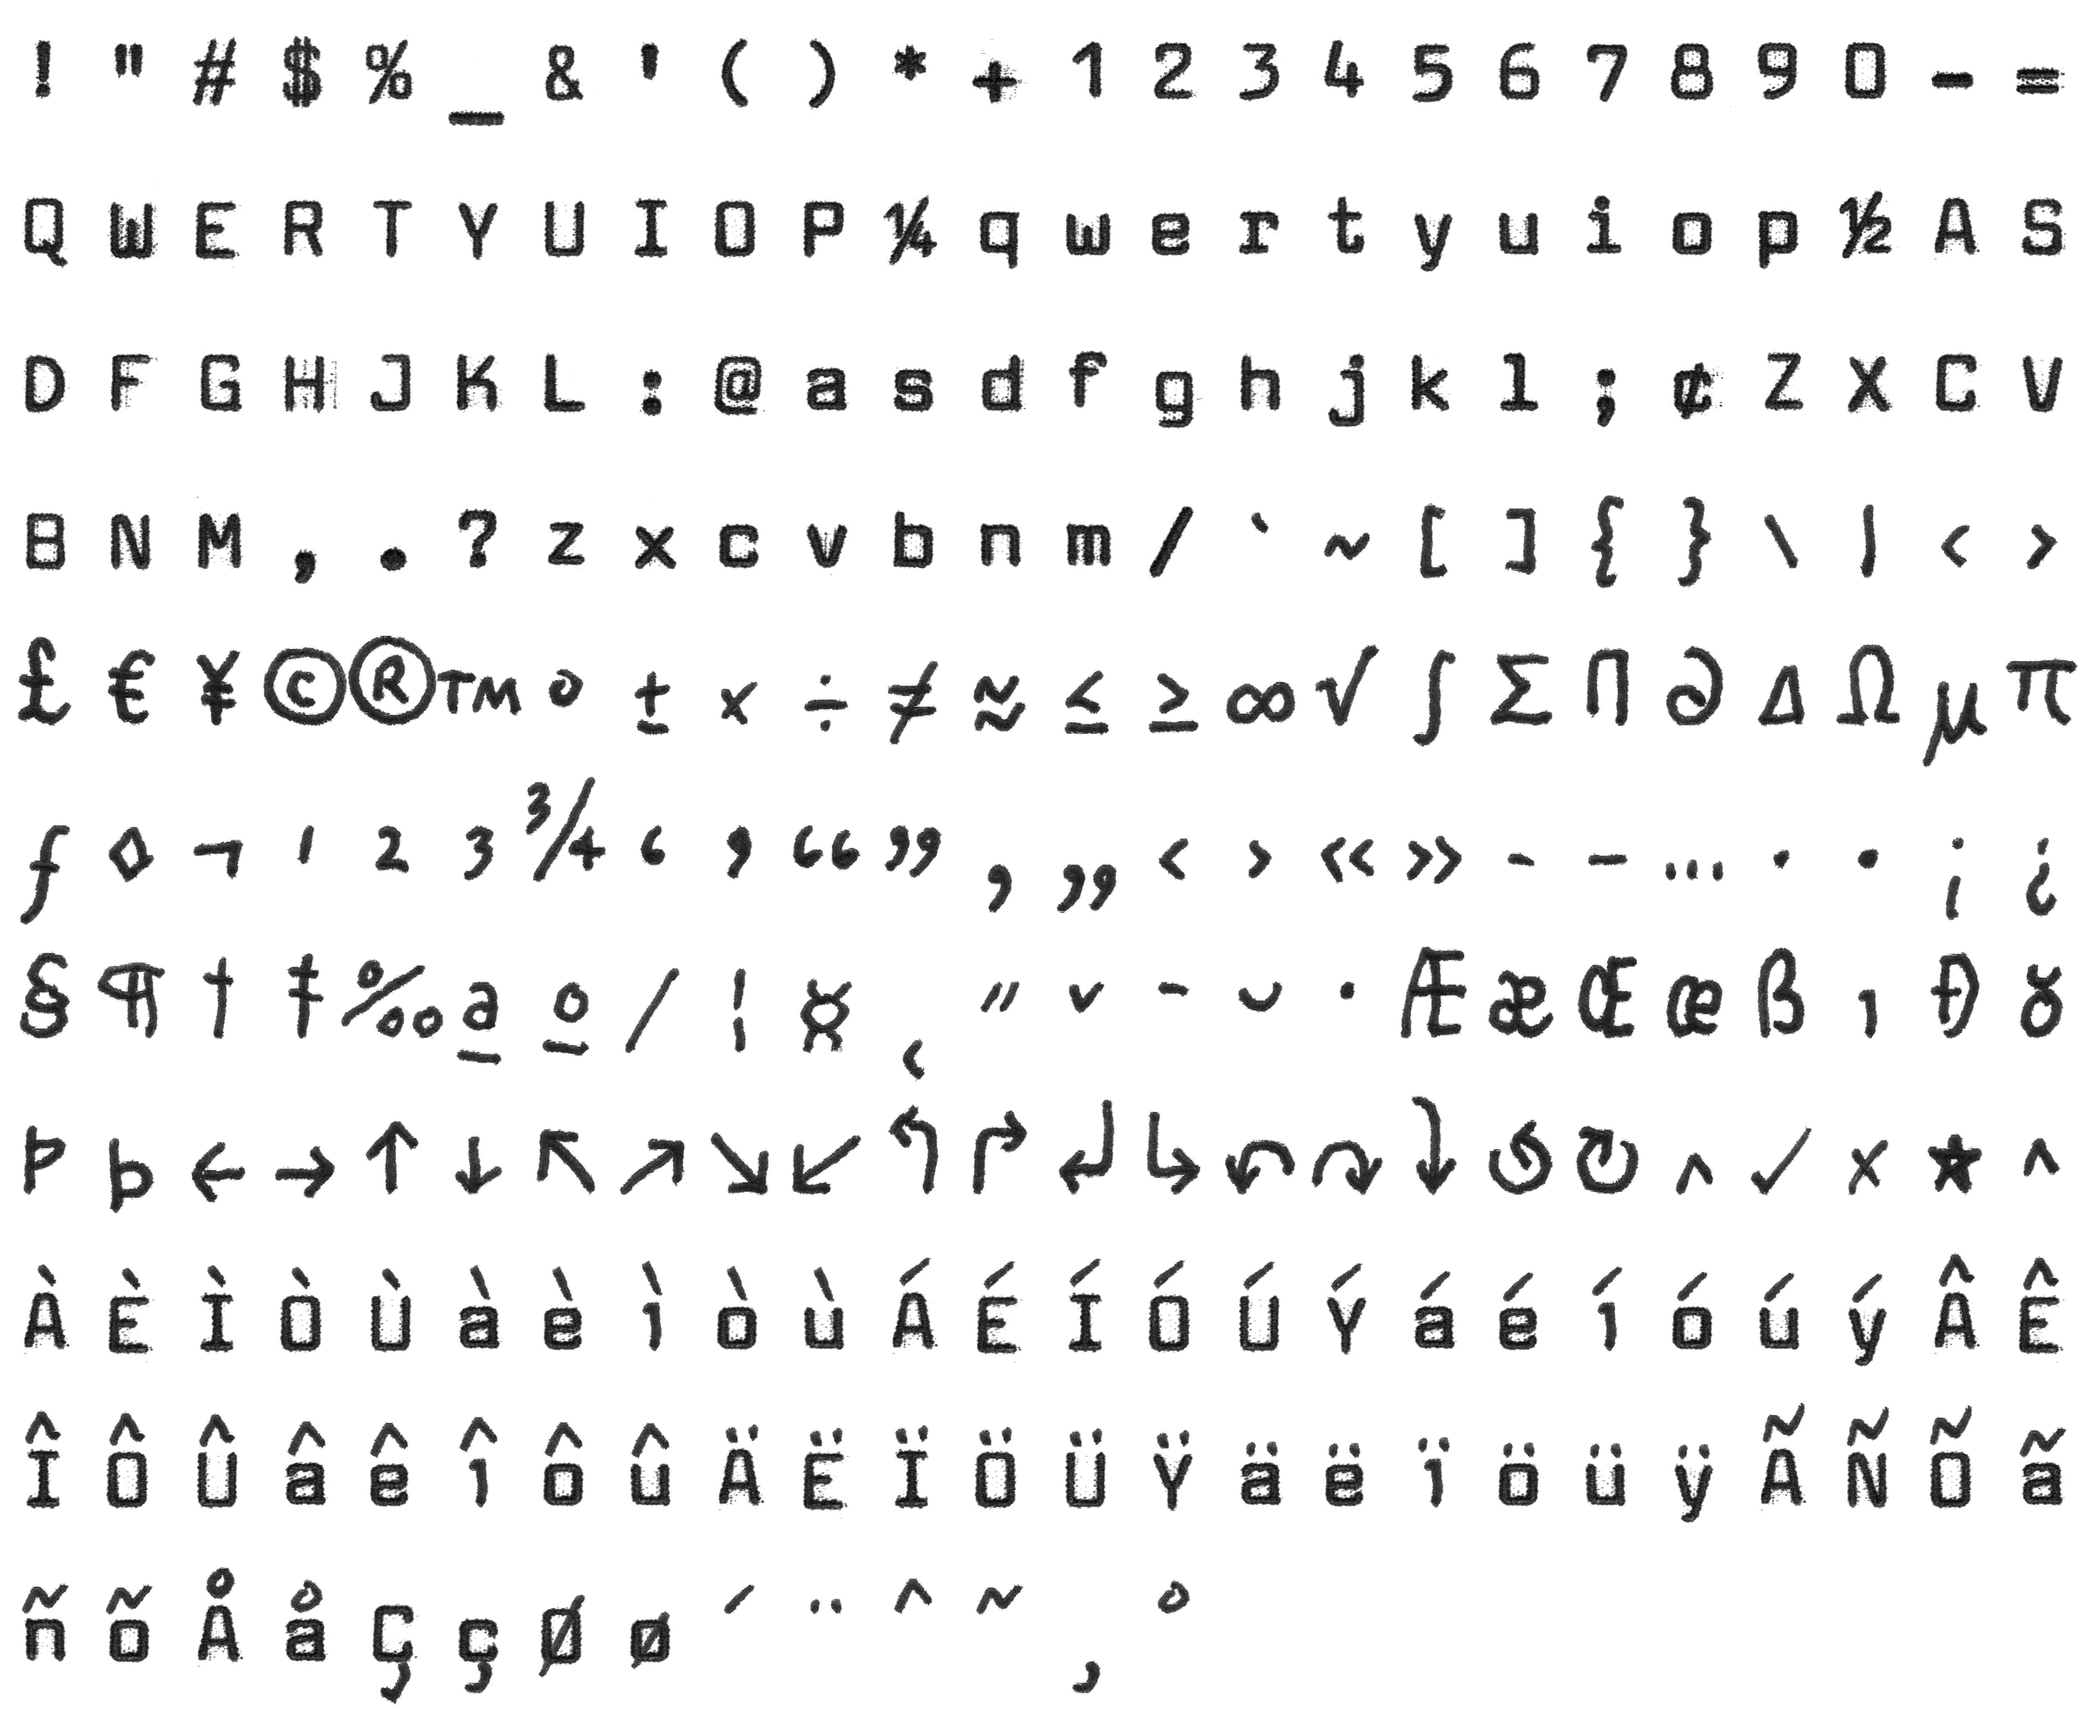
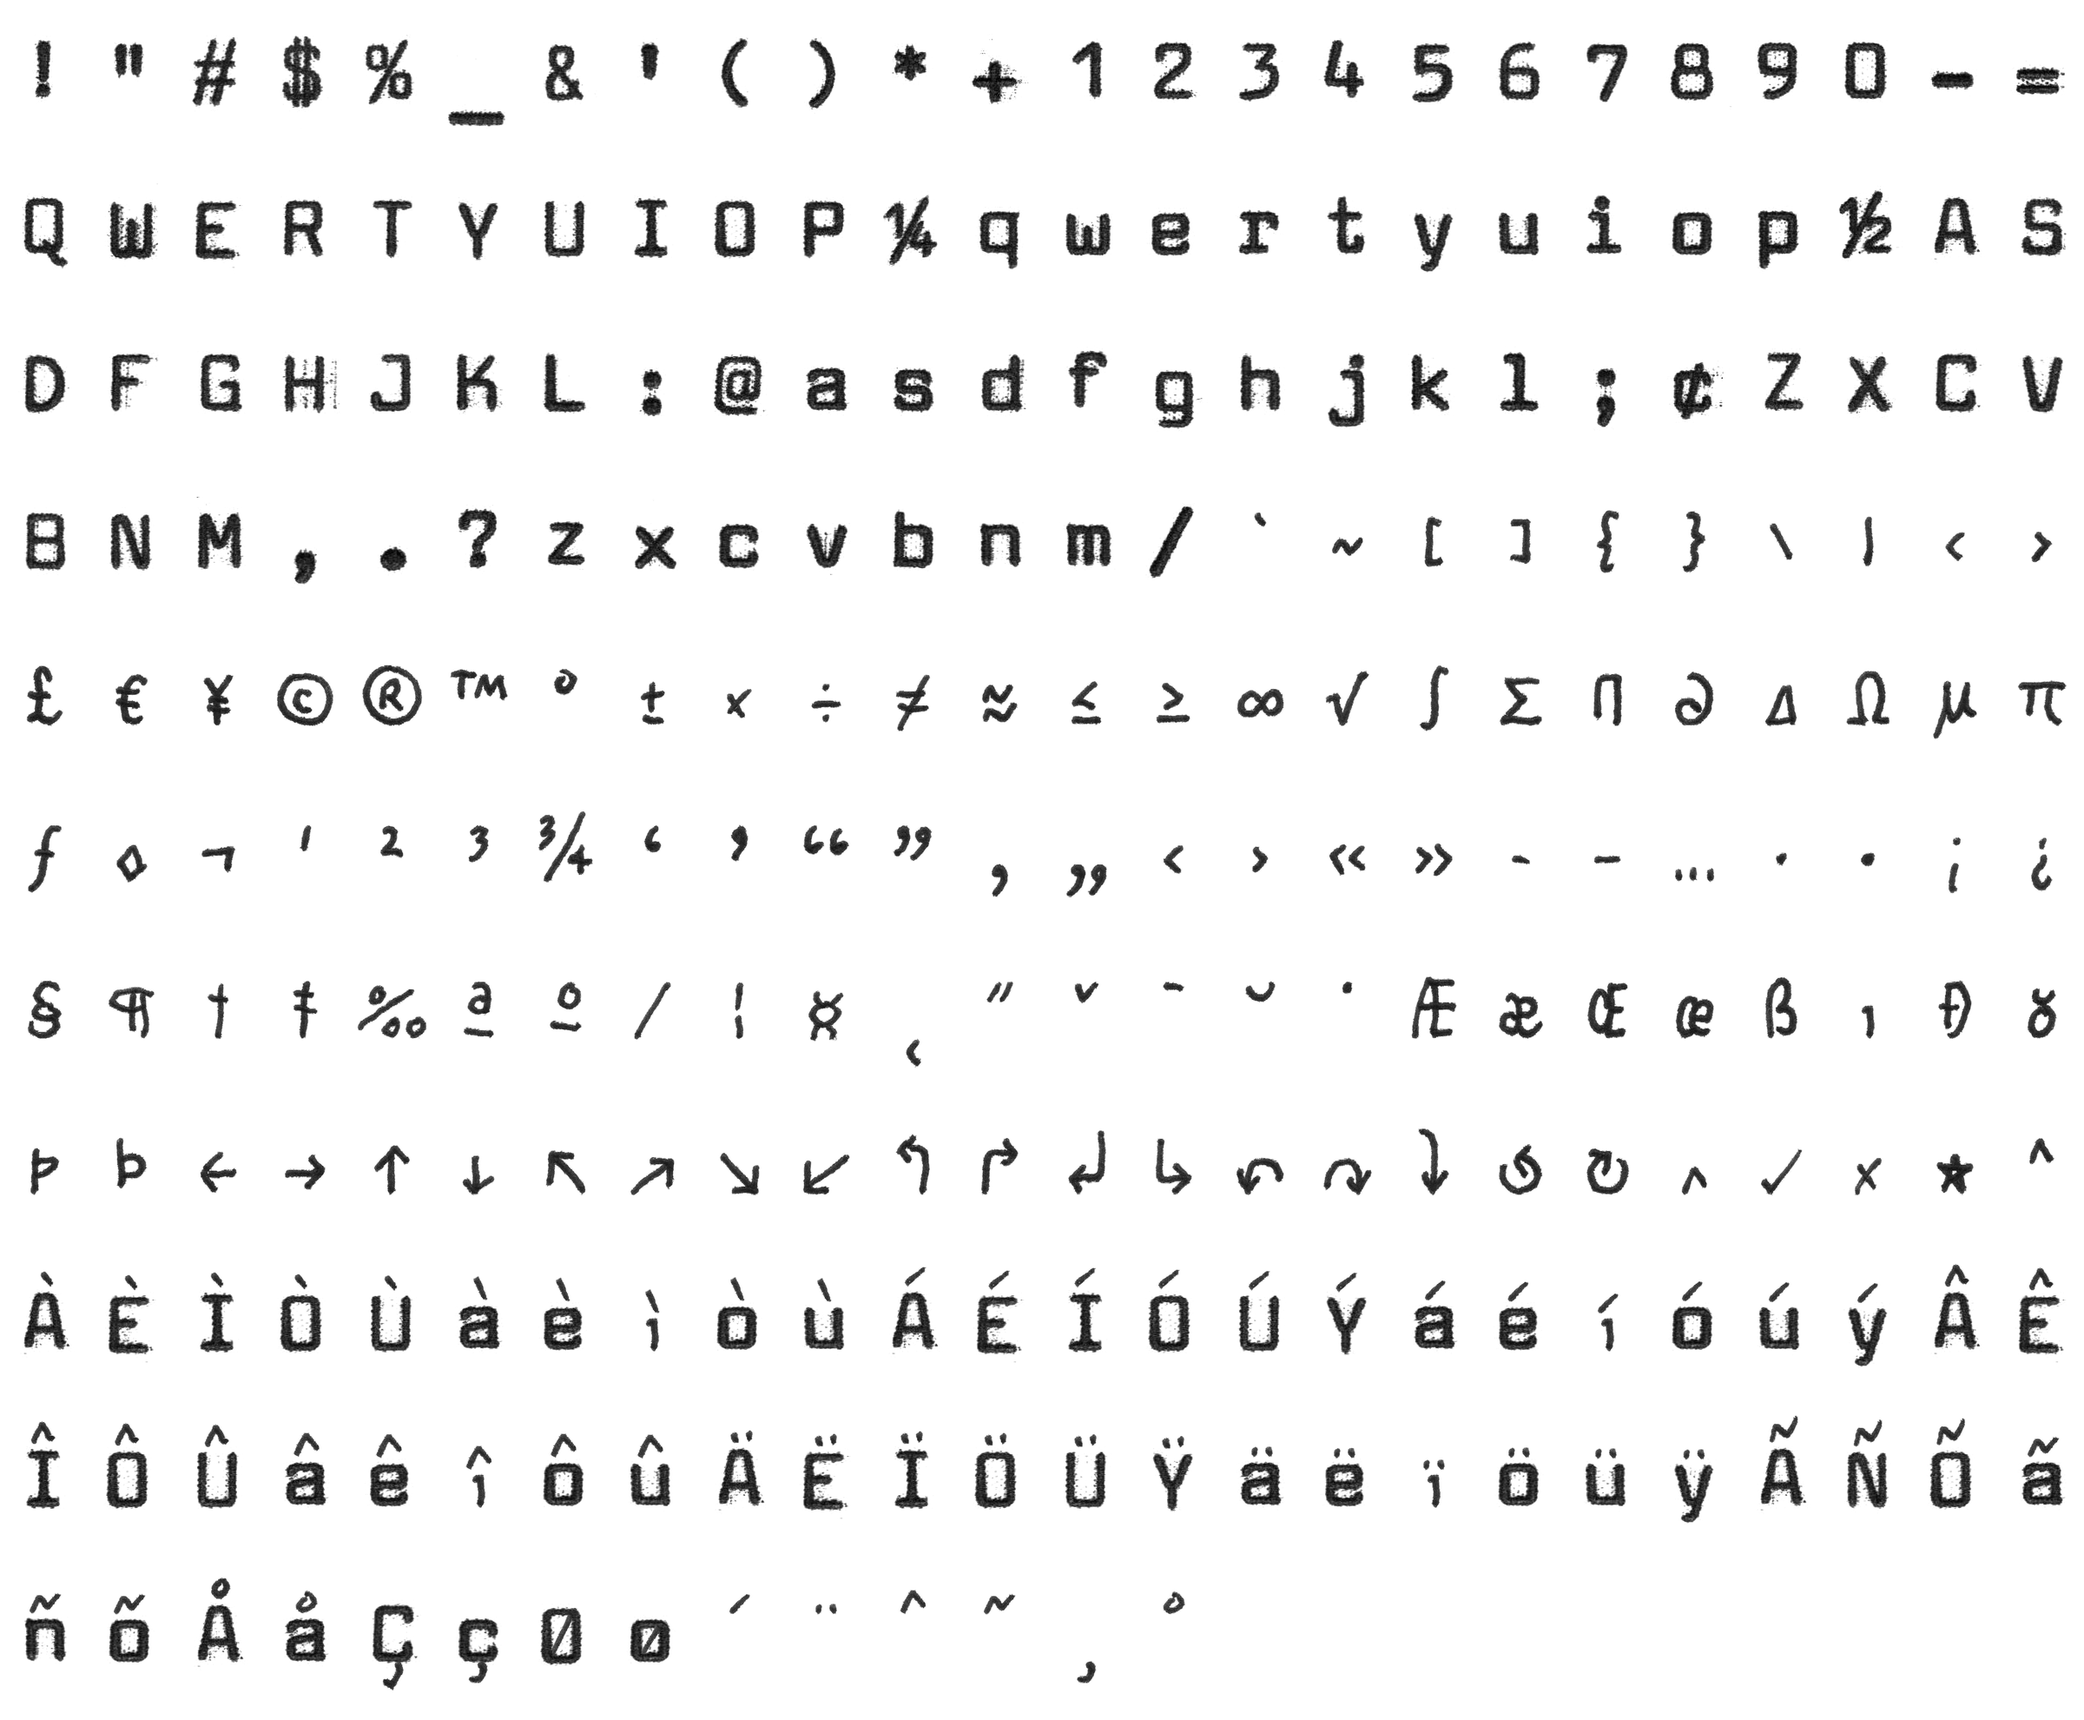
Scale each weight's drawings by one amount, and list what else prints
Every drawing in a weight is now scaled by the one factor that brings its
drawn capitals and x-height letters to the typed ones' size, in place of
shrinking each glyph to its own box, so all of them keep the stroke of the
pen they were drawn with. Accents over letters are measured without the
specks of dust in the scans, which had set the light lowercase o's accents a
line too high.

glyphs/layout.json also lists the lookalikes struck for characters the type
doesn't have, the accents struck over letters it has without them, and the
names characters can be written by.

Claude-Session: https://claude.ai/code/session_01UAck9h7yeA6utHax9aEA1s

diff --git a/docs/build-glyphs.py b/docs/build-glyphs.py
@@ -5,9 +5,9 @@
 #   python3 docs/build-glyphs.py
 #
 # Each scanned sheet is lined up against the layout docs/character-sheet.py printed it from, by finding every typed
-# glyph on it. Then each drawn glyph is cut out of its blank, cleaned of the blue and green ticks, and set at the
-# height its kind of character sits at, centred in its cell. Accents are laid over the letters that take them.
-# Needs Pillow and NumPy.
+# glyph on it. Then each drawn glyph is cut out of its blank, cleaned of the blue and green ticks, scaled with the rest
+# of its weight to the typed glyphs' size, and set at the height its kind of character sits at, centred in its cell.
+# Accents are laid over the letters that take them. Needs Pillow and NumPy.
 
 import json, os, sys
 import numpy as np
@@ -203,6 +203,36 @@ def baseOf(c):
     b = {"Ø": "O", "ø": "o"}.get(c) or unicodedata.normalize("NFD", c)[0]
     return "ı" if b == "i" else b
 
+# OTHER CHARACTERS THAT PRINT ######################################################################
+
+# Characters the type doesn't have, struck with one that looks the same
+lookalikes = {}
+for chars, glyph in [
+    ("✔✅", "✓"), ("✘❌", "✗"), ("✕✖⨯", "×"), ("☆⭐✩✪✫✬✭✮✯✰", "★"),
+    ("⇒⟹➔➜➝➞➟➠➡⟶", "→"), ("⇐⟸⟵⬅", "←"), ("⇑⬆", "↑"), ("⇓⬇", "↓"), ("↩", "↶"), ("↪", "↷"), ("⟲", "↺"), ("⟳", "↻"),
+    ("−‐‑", "-"), ("‒", "–"), ("―", "—"), ("′", "'"), ("″", '"'), ("‵", "`"), ("‛❛", "‘"), ("❜", "’"), ("‟❝", "“"),
+    ("❞", "”"), ("∙⋅", "·"), ("●◦‣⁃", "•"), ("∕", "/"), ("∣ǀ", "|"), ("≦⩽", "≤"), ("≧⩾", "≥"), ("∼～", "~"), ("⁁", "‸"),
+    ("μ", "µ"), ("Ω", "Ω"), ("Δ", "∆"), ("Σ", "∑"), ("Π", "∏"),
+]:
+    for c in chars: lookalikes[c] = glyph
+
+# A letter with an accent the type doesn't have is struck as the letter, then the accent over it, the typist's way
+overstrikes = {"\u0300": "`", "\u0301": "´", "\u0302": "ˆ", "\u0303": "˜", "\u0304": "¯", "\u0306": "˘", "\u0307": "˙",
+               "\u0308": "¨", "\u030a": "˚", "\u030b": "˝", "\u030c": "ˇ", "\u0327": "¸", "\u0328": "˛"}
+hanging = "¸˛" # accents that hang from a letter rather than sit over it
+
+def prints(c, have):
+    """Whether the app can strike c, from the glyphs it has."""
+    if c in have or lookalikes.get(c) in have: return True
+    base, *marks = unicodedata.normalize("NFD", c)
+    if base == "i": base = "ı"
+    return bool(marks) and (base in have or lookalikes.get(base) in have) and all(overstrikes.get(m) in have for m in marks)
+
+def characterNames(have):
+    """The names Markdown (and HTML) spell characters by, &frac12; for ½, for every one that prints."""
+    from html.entities import html5
+    return {n[:-1]: c for n, c in sorted(html5.items()) if n.endswith(";") and len(c) == 1 and c != " " and prints(c, have)}
+
 # THE NEW GLYPH IMAGES ############################################################################
 
 # Every strike gets one image: the typed glyphs copied from the typewriter's scans, then the drawn ones. Built at
@@ -219,15 +249,32 @@ strikes = [ # (glyph image, sheet, section on it, typed scan)
     ("double-red", "red", 2, "regular-red"), # the typewriter's red was never scanned double struck
 ]
 
-def inkBox(rgb, threshold=90):
-    ys, xs = np.nonzero(255 - rgb.min(2).astype(np.float32) > threshold)
-    return None if len(ys) == 0 else (xs.min(), ys.min(), xs.max() + 1, ys.max() + 1)
+def inkBox(rgb, threshold=90, smallest=30):
+    """The box around the ink in rgb, leaving out specks of dust in the scans."""
+    found = [f for f in components(255 - rgb.min(2).astype(np.float32) > threshold) if len(f[0]) >= smallest]
+    if not found: return None
+    ys, xs = np.concatenate([f[0] for f in found]), np.concatenate([f[1] for f in found])
+    return xs.min(), ys.min(), xs.max() + 1, ys.max() + 1
 
 def stamp(canvas, rgb, x, y):
     """Lay rgb over canvas with its top left at (x, y), ink over ink, as a typist's strikes would."""
     h, w = rgb.shape[:2]
     region = canvas[y:y + h, x:x + w]
     region[...] = np.minimum(region, rgb[:region.shape[0], :region.shape[1]])
+
+# Each weight's drawings are scaled by the one factor that brings its drawn capitals to the height of the typed ones,
+# and its drawn x-height letters to theirs, so every glyph keeps the weight of the pen it was drawn with
+def drawnScale(got):
+    heights = [(line["base"] - line["cap"], "ÆŒÐÞ"), (line["base"] - line["x"], "æœ")]
+    ratios = [h / (got[c][1][3] - got[c][1][1]) for h, chars in heights for c in chars if c in got]
+    return float(np.median(ratios)) if ratios else 1
+
+def scaled(d, s):
+    """A drawing d = (clean, box) at s times its size."""
+    clean, (x0, y0, x1, y1) = d
+    img = Image.fromarray(clean)
+    small = np.asarray(img.resize((max(1, round(img.width * s)), max(1, round(img.height * s))), Image.LANCZOS))
+    return small, (round(x0 * s), round(y0 * s), round(x1 * s), round(y1 * s))
 
 def setDrawn(canvas, ox, oy, d, rule=None, at=None):
     """Set a drawn glyph d = (clean, box) in the cell whose glyph origin is (ox, oy), by rule or at a given point."""
@@ -258,6 +305,9 @@ def build():
                 if c["typed"]: continue
                 d = drawn(cutOut(scan, M, c), red=sheet == "red")
                 if d is not None: got[c["char"]] = (d[0], (d[1][0], d[1][1], d[1][2], d[1][3]))
+            s = drawnScale(got)
+            for c in got: got[c] = scaled(got[c], s)
+            print(f"  {sec['title'].lower()} drawings set at {s:.2f} of the size they were drawn")
     # A character left blank in one section borrows its drawing from another of the same colour
     for (sheet, i), got in drawings.items():
         for (other, j), there in drawings.items():
@@ -308,15 +358,34 @@ def build():
             ox, oy = origin(c)
             at = (centre, "top", line["base"] - 6) if kind == "cedilla" else (centre, "bottom", line["x"] - gap)
             setDrawn(canvas, ox, oy, accents[kind, "low"], at=at)
+        if name == "regular":
+            # How low each accent reaches, so the app can set it over a letter it doesn't have
+            accentBottom = {}
+            for a in overstrikes.values():
+                if a in order and a not in hanging:
+                    ox, oy = origin(a)
+                    box = inkBox(canvas[oy - originY:oy - originY + cellH, ox - originX:ox - originX + cellW])
+                    if box: accentBottom[a] = (box[3] - originY) * outDPI / atlasDPI
         img = Image.fromarray(canvas).resize((canvas.shape[1] * outDPI // atlasDPI, canvas.shape[0] * outDPI // atlasDPI), Image.LANCZOS)
         # Black ink is saved as greys; red as a palette of 256 colours, plenty for red ink on white paper
         img = img.quantize(256, dither=Image.Dither.NONE) if "red" in name else img.convert("L")
         img.save(here("glyphs", name + ".png"), optimize=True)
         print(f"glyphs/{name}.png: {img.width} × {img.height}")
     s = outDPI / atlasDPI
-    json.dump({"dpi": outDPI, "columns": columns, "cellWidth": cellW * s, "cellHeight": cellH * s,
-               "glyphX": originX * s, "glyphY": originY * s, "chars": "".join(order)},
-              open(here("glyphs", "layout.json"), "w"), ensure_ascii=False)
+    have = set(order)
+    names = characterNames(have)
+    json.dump({
+        "dpi": outDPI, "columns": columns, "cellWidth": cellW * s, "cellHeight": cellH * s,
+        "glyphX": originX * s, "glyphY": originY * s, "chars": "".join(order),
+        "lookalikes": {c: g for c, g in lookalikes.items() if g in have and c not in have},
+        "overstrikes": {m: a for m, a in overstrikes.items() if a in have},
+        "hanging": hanging,
+        # where the bottom of an accent goes, over a capital and over a lowercase letter, down from a glyph's top
+        "accentLine": {"cap": (line["cap"] - gap) * s, "low": (line["x"] - gap) * s},
+        "accentBottom": accentBottom,
+        "names": names,
+    }, open(here("glyphs", "layout.json"), "w"), ensure_ascii=False, indent=None, separators=(",", ":"))
+    print(f"{len(names)} character names")
     print(f"{len(order)} characters: {len(typed)} typed, {len(drawnChars)} drawn, {len(composed) + len(spacingAccents)} built from accents")
 
 if __name__ == "__main__":
